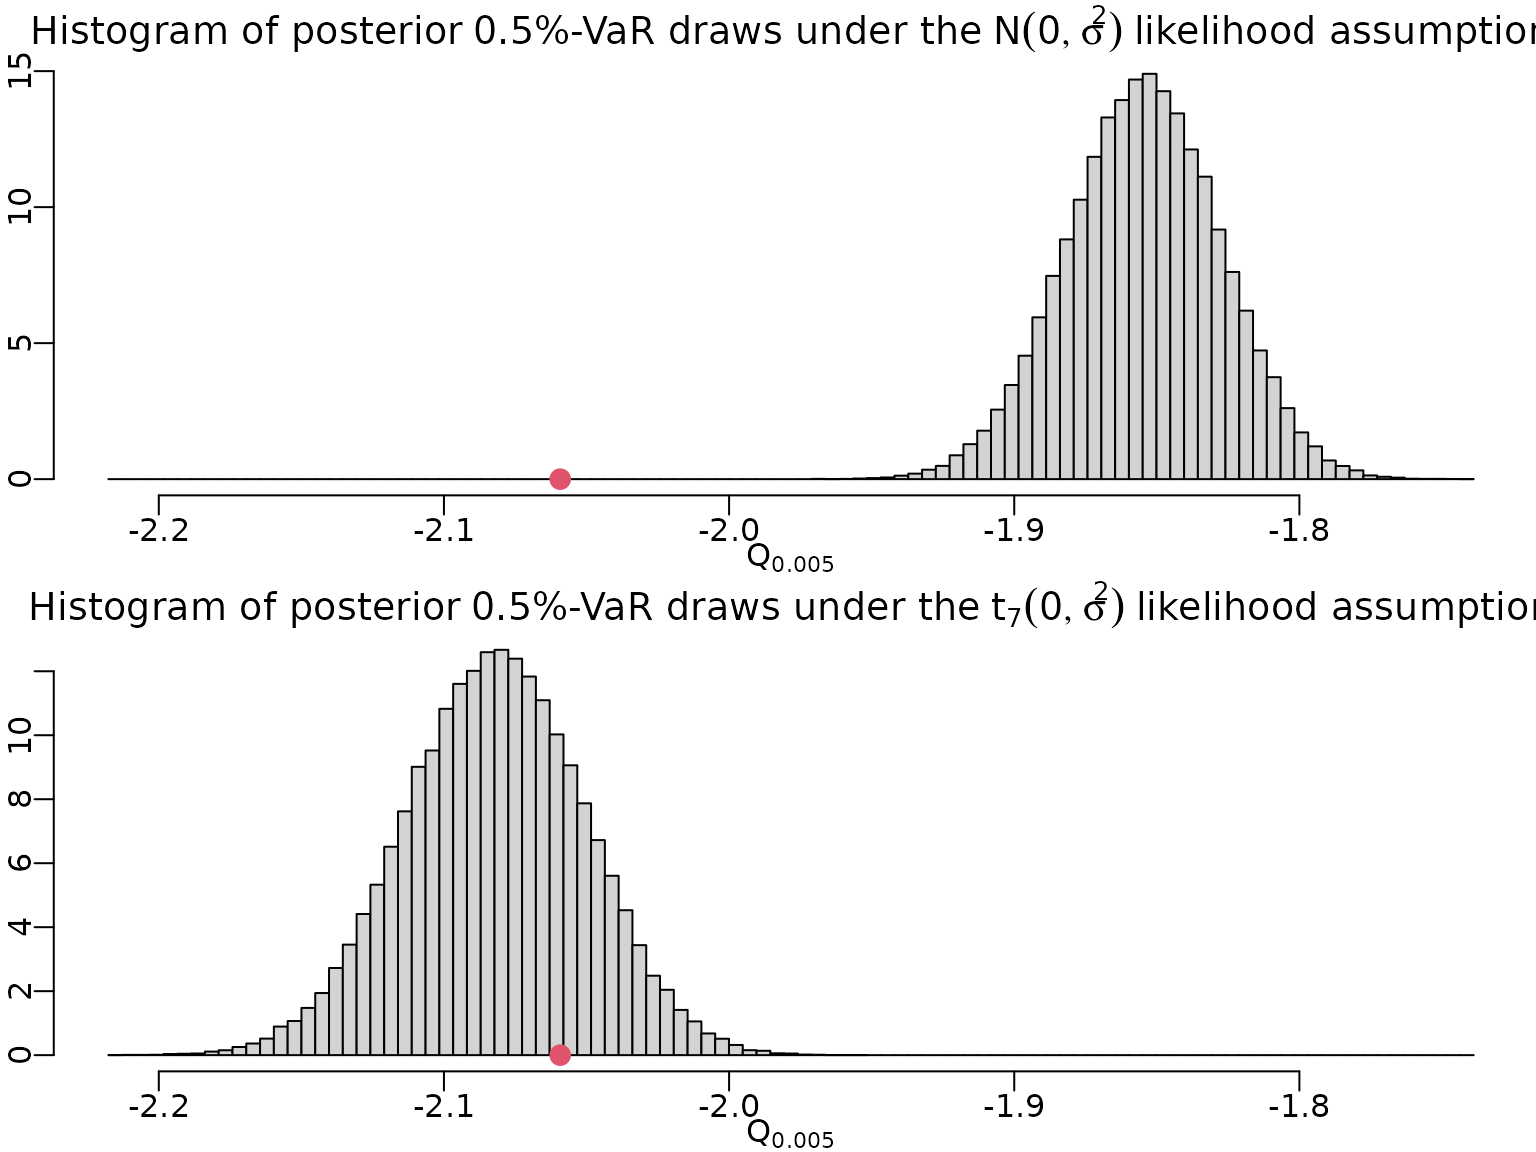
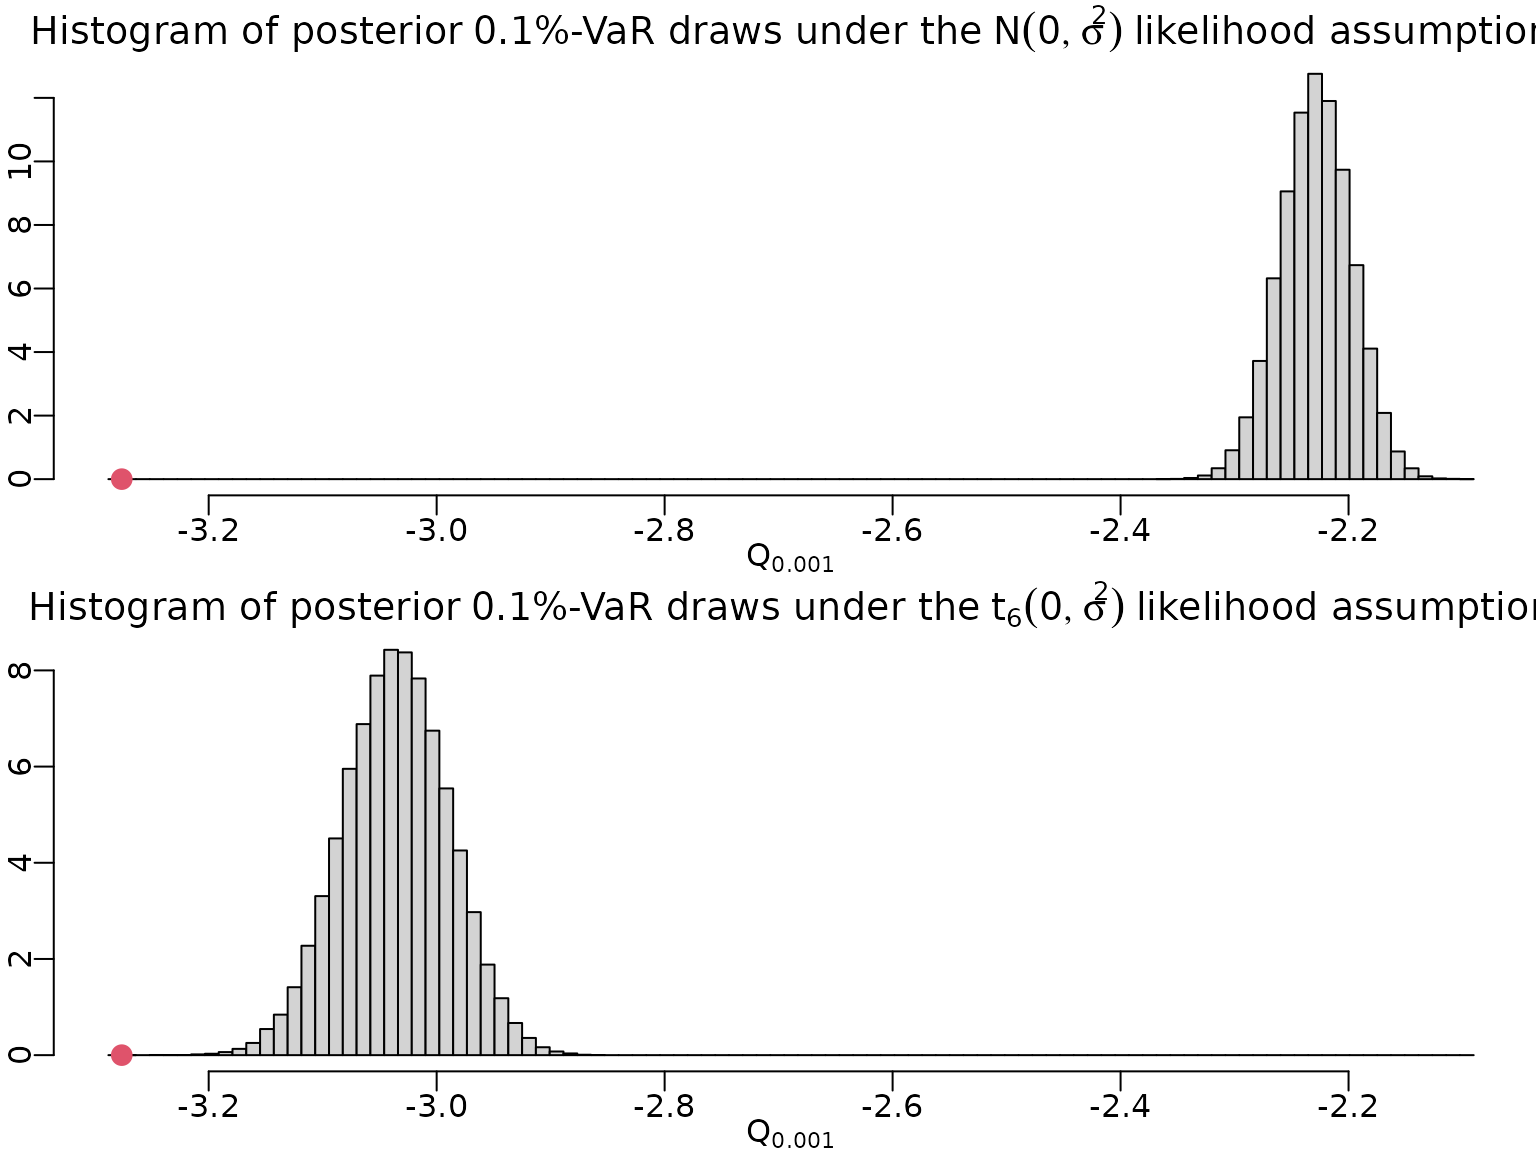
Deploying to gh-pages from @ gregorkastner/BayesianLearningCode@b63bd815339f0340476f458cb57e0f7ced01576c 🚀

diff --git a/articles/Chapter04.html b/articles/Chapter04.html
@@ -282,7 +282,7 @@ fasted of all methods in R, but will do just fine for our use-case).</p>
 <span><span class="va">post_unnormalized</span> <span class="op">&lt;-</span> <span class="fu"><a href="https://rdrr.io/r/base/Vectorize.html" class="external-link">Vectorize</a></span><span class="op">(</span><span class="va">post_unnormalized_nonvec</span>, <span class="st">"sigma2"</span><span class="op">)</span></span></code></pre></div>
 <p>Now we can plot.</p>
 <div class="sourceCode" id="cb8"><pre class="downlit sourceCode r">
-<code class="sourceCode R"><span><span class="va">nu</span> <span class="op">&lt;-</span> <span class="fl">7</span></span>
+<code class="sourceCode R"><span><span class="va">nu</span> <span class="op">&lt;-</span> <span class="fl">6</span></span>
 <span><span class="va">sigma2</span> <span class="op">&lt;-</span> <span class="fu"><a href="https://rdrr.io/r/base/seq.html" class="external-link">seq</a></span><span class="op">(</span><span class="fl">0.3</span>, <span class="fl">0.4</span>, length.out <span class="op">=</span> <span class="fl">3000</span><span class="op">)</span></span>
 <span><span class="va">pdf_u</span> <span class="op">&lt;-</span> <span class="fu">post_unnormalized</span><span class="op">(</span><span class="va">sigma2</span>, y <span class="op">=</span> <span class="va">y</span>, nu <span class="op">=</span> <span class="va">nu</span><span class="op">)</span></span>
 <span></span>
@@ -310,7 +310,7 @@ particular, <em>rnorm</em> can handle the so-called <em>varying
 parameter case</em>.</p>
 <div class="sourceCode" id="cb9"><pre class="downlit sourceCode r">
 <code class="sourceCode R"><span><span class="fu"><a href="https://rdrr.io/r/base/Random.html" class="external-link">set.seed</a></span><span class="op">(</span><span class="fl">42</span><span class="op">)</span></span>
-<span><span class="va">alpha</span> <span class="op">&lt;-</span> <span class="fl">0.005</span></span>
+<span><span class="va">alpha</span> <span class="op">&lt;-</span> <span class="fl">0.001</span></span>
 <span><span class="va">ndraws</span> <span class="op">&lt;-</span> <span class="fl">100000</span></span>
 <span><span class="va">sigma2draws</span> <span class="op">&lt;-</span> <span class="fu">rinvgamma</span><span class="op">(</span><span class="va">ndraws</span>, <span class="va">cN</span>, <span class="va">CN</span><span class="op">)</span></span>
 <span><span class="va">mudraws</span> <span class="op">&lt;-</span> <span class="fu"><a href="https://rdrr.io/r/stats/Normal.html" class="external-link">rnorm</a></span><span class="op">(</span><span class="va">ndraws</span>, <span class="fu"><a href="https://rdrr.io/r/base/mean.html" class="external-link">mean</a></span><span class="op">(</span><span class="va">y</span><span class="op">)</span>, <span class="fu"><a href="https://rdrr.io/r/base/MathFun.html" class="external-link">sqrt</a></span><span class="op">(</span><span class="va">sigma2draws</span> <span class="op">/</span> <span class="va">N</span><span class="op">)</span><span class="op">)</span></span>
